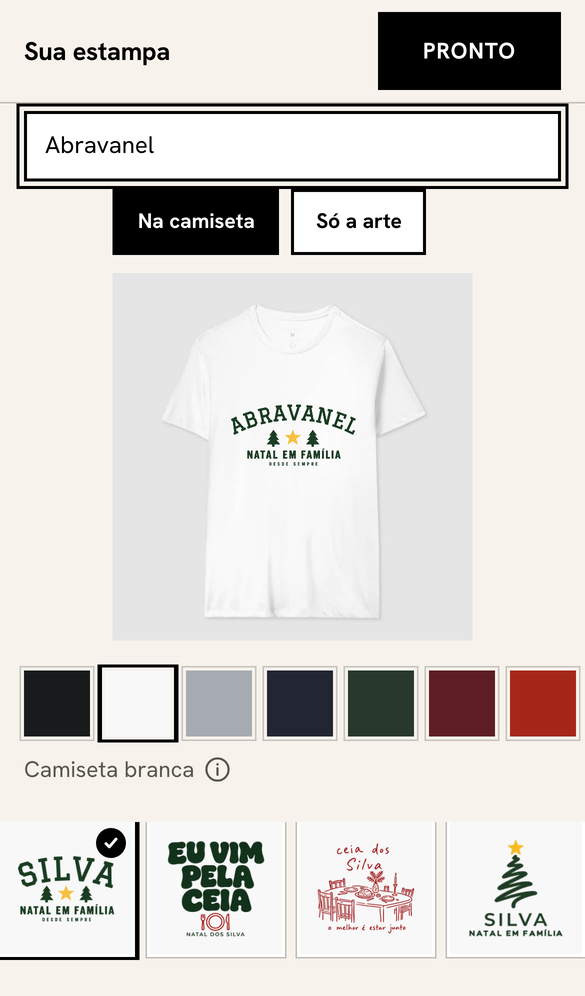
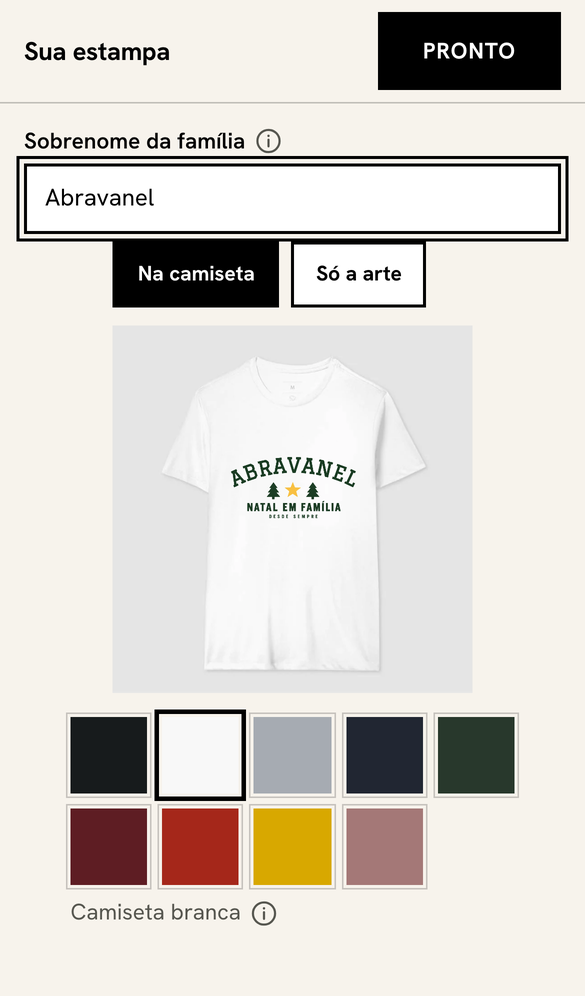
fix(personalizacao): tela cheia só com as cores, em até duas linhas
- Tira as artes e versões da tela cheia: um toque ali trocava a arte
  escolhida. Elas ficam só na página.
- As cores da tela cheia usam a mesma grade da página (5 + 4), sem
  rolagem para o lado.
- Esc dentro da tela cheia fecha só a dica aberta; o efeito de passar o
  mouse no "Ver como ficou" fica só com mouse (no celular grudava).

diff --git a/src/components/customization/StudioPickers.tsx b/src/components/customization/StudioPickers.tsx
@@ -8,18 +8,18 @@ export type ArtOption = { key: number; label: string; thumb: string; caption?: s
 /**
  * Art (or version) choice as thumbnails of the art itself, on the colour of the shirt being previewed: the customer recognises "the one with
  * the tree" faster than a name. The name stays for screen readers; `caption` (e.g. "Infantil") shows under a thumbnail when the art alone
- * does not say it. `strip` lays them in one scrolling row (the full-screen preview).
+ * does not say it.
  */
-export function ArtPicker({ legend, name, options, value, onChange, shirt, strip = false }: { legend: React.ReactNode; name: string; options: ArtOption[]; value: number; onChange: (key: number) => void; shirt: string; strip?: boolean }) {
+export function ArtPicker({ legend, name, options, value, onChange, shirt }: { legend: React.ReactNode; name: string; options: ArtOption[]; value: number; onChange: (key: number) => void; shirt: string }) {
   const tile = shirtColor(shirt).swatch;
   return (
     <fieldset className="min-w-0">
-      <legend className={strip ? "sr-only" : "t-h3"}>{legend}</legend>
-      <div className={strip ? "-mx-4 mt-2 flex snap-x gap-3 overflow-x-auto px-4 pb-1" : "mt-3 grid grid-cols-3 gap-3 sm:grid-cols-5"}>
+      <legend className="t-h3">{legend}</legend>
+      <div className="mt-3 grid grid-cols-3 gap-3 sm:grid-cols-5">
         {options.map((o) => {
           const picked = o.key === value;
           return (
-            <label key={o.key} className={`group block cursor-pointer ${strip ? "w-[5.5rem] shrink-0 snap-start" : "min-w-0"}`}>
+            <label key={o.key} className="group block min-w-0 cursor-pointer">
               <input type="radio" name={name} checked={picked} onChange={() => onChange(o.key)} className="peer sr-only" />
               <span className={`relative flex aspect-square items-center justify-center overflow-hidden p-2 outline-offset-2 ring-offset-2 transition-shadow peer-focus-visible:outline peer-focus-visible:outline-2 peer-focus-visible:outline-region-primary ${picked ? "ring-[3px] ring-ink" : "ring-1 ring-line group-hover:ring-ink-mute"}`} style={{ backgroundColor: tile }}>
                 {/* eslint-disable-next-line @next/next/no-img-element -- a small cached thumbnail served by our own route */}
@@ -36,15 +36,18 @@ export function ArtPicker({ legend, name, options, value, onChange, shirt, strip
   );
 }
 
-/** Shirt colours as plain squares, like INK; the name is for screen readers and the line below, with the "only for viewing" note behind an "i". */
-export function ShirtSwatches({ name, value, onChange, row = false }: { name: string; value: string; onChange: (id: string) => void; row?: boolean }) {
+/**
+ * Shirt colours as plain squares, like INK, in two rows at most (never a sideways scroll); the name is for screen readers and the line below,
+ * with the "only for viewing" note behind an "i".
+ */
+export function ShirtSwatches({ name, value, onChange }: { name: string; value: string; onChange: (id: string) => void }) {
   const current = shirtColor(value);
   return (
     <fieldset className="min-w-0">
       <legend className="sr-only">Cor da camiseta na prévia</legend>
-      <div className={row ? "-mx-4 flex gap-2.5 overflow-x-auto px-4 py-1" : "grid max-w-[18.5rem] grid-cols-5 gap-2.5"}>
+      <div className="grid max-w-[18.5rem] grid-cols-5 gap-2.5">
         {SHIRT_COLORS.map((c) => (
-          <label key={c.id} className={`block cursor-pointer ${row ? "h-11 w-11 shrink-0" : "aspect-square min-h-11"}`} title={c.label}>
+          <label key={c.id} className="block aspect-square min-h-11 cursor-pointer" title={c.label}>
             <input type="radio" name={name} checked={c.id === value} onChange={() => onChange(c.id)} className="peer sr-only" />
             <span className={`block h-full w-full ring-offset-2 ring-offset-ground peer-focus-visible:outline peer-focus-visible:outline-2 peer-focus-visible:outline-offset-4 peer-focus-visible:outline-region-primary ${c.id === value ? "ring-[3px] ring-ink" : "ring-1 ring-black/20"}`} style={{ backgroundColor: c.swatch }} />
             <span className="sr-only">{c.label}</span>

diff --git a/src/components/customization/CustomizerForm.tsx b/src/components/customization/CustomizerForm.tsx
@@ -137,10 +137,11 @@ export function CustomizerForm({
 
   const artOptions = () => arts.map((a, i) => ({ key: i, label: a.label, thumb: thumb(choiceOf(arts, { art: i, version: i === pick.art ? pick.version : 0, light })!.templateId) }));
   const versionOptions = () => choice!.art.versions.map((v, j) => ({ key: j, label: `${choice!.art.label} · ${v.label ?? `Versão ${j + 1}`}`, caption: v.label ?? `Versão ${j + 1}`, thumb: thumb(choiceOf(arts, { art: pick.art, version: j, light })!.templateId) }));
-  const artPickers = (where: string, strip = false) => choice && (
+  // Only on the page: the full-screen view offers just the colours, so a tap there never swaps the art the customer picked.
+  const artPickers = choice && (
     <>
-      {arts.length > 1 && <ArtPicker legend={strip ? "Arte" : "1. Escolha a arte"} name={`${uid}-${where}-arte`} options={artOptions()} value={pick.art} onChange={(art) => choose({ art, version: 0 })} shirt={shirt} strip={strip} />}
-      {choice.art.versions.length > 1 && <ArtPicker legend="Versão" name={`${uid}-${where}-versao`} options={versionOptions()} value={pick.version} onChange={(version) => choose({ art: pick.art, version })} shirt={shirt} strip={strip} />}
+      {arts.length > 1 && <ArtPicker legend="1. Escolha a arte" name={`${uid}-arte`} options={artOptions()} value={pick.art} onChange={(art) => choose({ art, version: 0 })} shirt={shirt} />}
+      {choice.art.versions.length > 1 && <ArtPicker legend="Versão" name={`${uid}-versao`} options={versionOptions()} value={pick.version} onChange={(version) => choose({ art: pick.art, version })} shirt={shirt} />}
     </>
   );
 
@@ -312,7 +313,7 @@ export function CustomizerForm({
           ) : (
             <form onSubmit={onSubmit} noValidate className="space-y-6" aria-describedby={`${uid}-notice`}>
               <fieldset disabled={phase === "sending"} className="min-w-0 space-y-6">
-              {studio && <div className="space-y-5">{artPickers("form")}</div>}
+              {studio && <div className="space-y-5">{artPickers}</div>}
               {family && (
                 <div className="space-y-3" data-testid="family-order">
                   {items.length > 1 && (
@@ -454,8 +455,7 @@ export function CustomizerForm({
               {/* The input first: with the phone keyboard open, the input and the art above it still fit on screen. */}
               {fieldMode && surnameStep(true)}
               <div className="mx-auto w-full" style={{ maxWidth: "min(100%, 36svh)" }}>{previewBlock(true)}</div>
-              <ShirtSwatches name={`${uid}-full-camiseta`} value={shirt} onChange={chooseShirt} row />
-              {artPickers("full", true)}
+              <div className="mx-auto w-full max-w-[18.5rem]"><ShirtSwatches name={`${uid}-full-camiseta`} value={shirt} onChange={chooseShirt} /></div>
             </div>
           </>}
         </dialog>

diff --git a/src/components/customization/InfoTip.tsx b/src/components/customization/InfoTip.tsx
@@ -16,7 +16,7 @@ export function InfoTip({ label, children }: { label: string; children: React.Re
   useEffect(() => {
     if (!open) return;
     const away = (e: PointerEvent) => { if (!wrap.current?.contains(e.target as Node)) setOpen(false); };
-    const escape = (e: KeyboardEvent) => { if (e.key === "Escape") { e.stopPropagation(); setOpen(false); } };
+    const escape = (e: KeyboardEvent) => { if (e.key === "Escape") { e.preventDefault(); e.stopPropagation(); setOpen(false); } };
     document.addEventListener("pointerdown", away);
     // Capture, so Escape closes the bubble before it reaches an open <dialog> (which would close the full-screen view).
     document.addEventListener("keydown", escape, true);

diff --git a/src/components/customization/ArtworkEditor.module.css b/src/components/customization/ArtworkEditor.module.css
@@ -39,4 +39,5 @@
    black buttons without competing with "Enviar". `button.` outranks `.btn-ghost`, whose own colours would otherwise win. `--region-primary`,
    not `--color-region-primary`: the theme token is resolved at :root (`@theme inline`), before the region wrapper sets its colour. */
 button.seeShirt { border-color: var(--region-primary); background: var(--region-primary); color: #fff; }
-button.seeShirt:hover { background: transparent; color: var(--region-primary); }
+/* Only with a real pointer: on a phone the hover state sticks after a tap and would leave the button hollow. */
+@media (hover: hover) { button.seeShirt:hover { background: transparent; color: var(--region-primary); } }

diff --git a/docs/personalizacao-editor.md b/docs/personalizacao-editor.md
@@ -35,7 +35,7 @@ A página segue uma ordem só: título com uma frase, prévia na camiseta (com *
 
 - **Textos de apoio num "i"** (`InfoTip`): como escrever o sobrenome, a cor só para visualizar (e que a equipe confere a arte), o limite de artes por solicitação, quais contatos informar, como o contato é usado e o que acontece ao enviar. O "i" abre a dica com um toque, ela é anunciada a leitores de tela e fecha com Esc ou com um toque fora. A dica do sobrenome também é a descrição do campo para leitores de tela. Com um campo só, o rótulo do campo fica só para leitores de tela (o título da etapa já diz), e o contador de letras aparece a partir de 5 letras do limite.
 - O sobrenome começa **vazio** ("Ex.: Silva"); enquanto vazio, a prévia mostra o exemplo e avisa "É só um exemplo. Escreva o seu sobrenome", que leva ao campo.
-- **Ver como ficou na camiseta** (logo abaixo do campo, só no celular, na cor da região: o oliva da barra do topo no Sul) e **Tela cheia** abrem a prévia em tela inteira com o campo em cima (cabe acima do teclado), as cores e as artes: dá para escrever e ver ao mesmo tempo. Só o miolo da tela cheia rola; o cabeçalho com **Pronto** fica sempre visível (a janela é `overflow-clip`, e o miolo é `relative` para conter os botões de opção invisíveis das cores e das artes, que antes esticavam a janela em celulares mais baixos e levavam o cabeçalho embora).
+- **Ver como ficou na camiseta** (logo abaixo do campo, só no celular, na cor da região: o oliva da barra do topo no Sul) e **Tela cheia** abrem a prévia em tela inteira com o campo em cima (cabe acima do teclado) e as cores embaixo, em no máximo duas linhas e sem rolar para o lado: dá para escrever e ver ao mesmo tempo. As artes e versões não aparecem ali, para um toque não trocar a arte escolhida; elas ficam só na página. Só o miolo da tela cheia rola; o cabeçalho com **Pronto** fica sempre visível (a janela é `overflow-clip`, e o miolo é `relative` para conter os botões de opção invisíveis das cores e das artes, que antes esticavam a janela em celulares mais baixos e levavam o cabeçalho embora).
 - A fileira **Na camiseta · Só a arte · Tela cheia** quebra linha quando falta espaço (celular de 320 px).
 - **Várias artes na mesma solicitação**: "Incluir outra arte com o mesmo sobrenome" (até 4, por exemplo Adulto e Infantil). A solicitação guarda a primeira em `values.artwork` e as outras em `values.moreArtwork`; o resumo numera as artes, e o painel mostra e abre cada uma no estúdio (`/admin/estampas?solicitacao=…&arte=2`).
 - O texto das bases geradas traz o exemplo do campo ("Silva"), então a miniatura salva pelo estúdio já mostra o exemplo.
